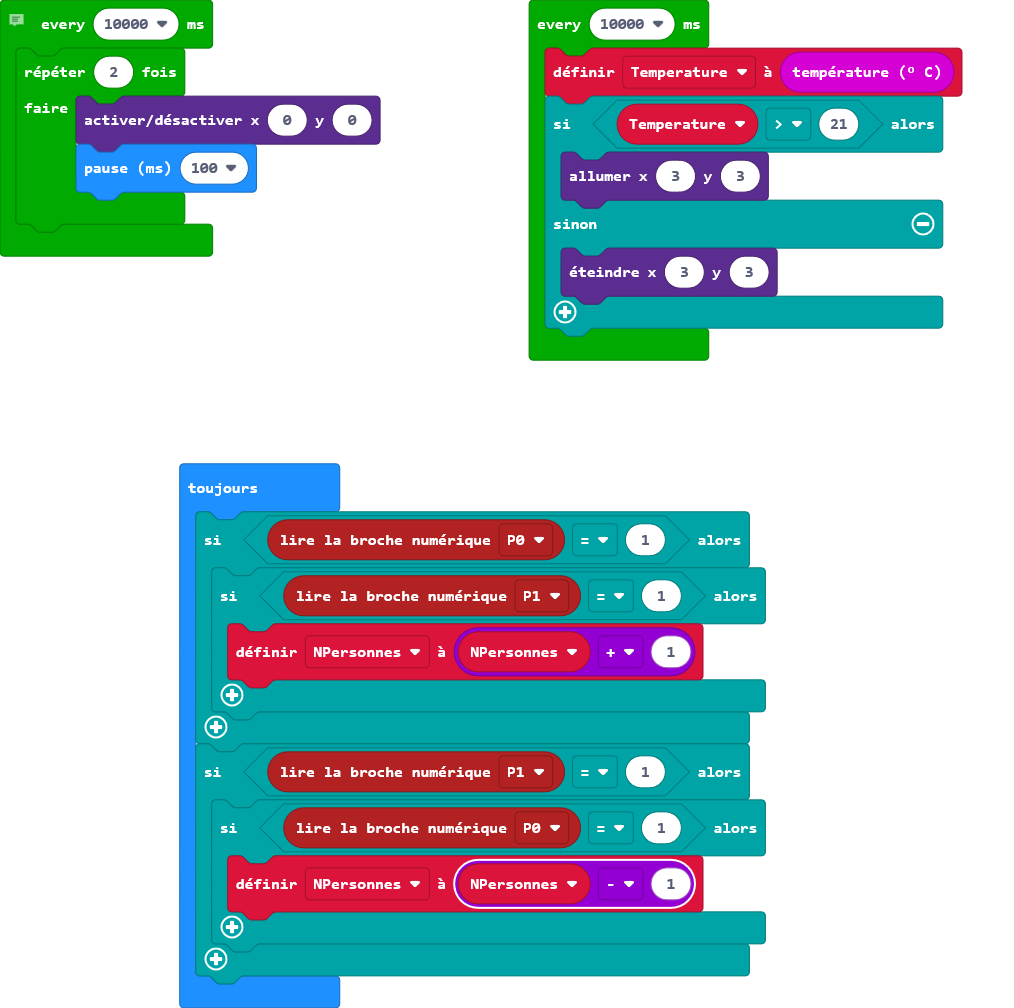
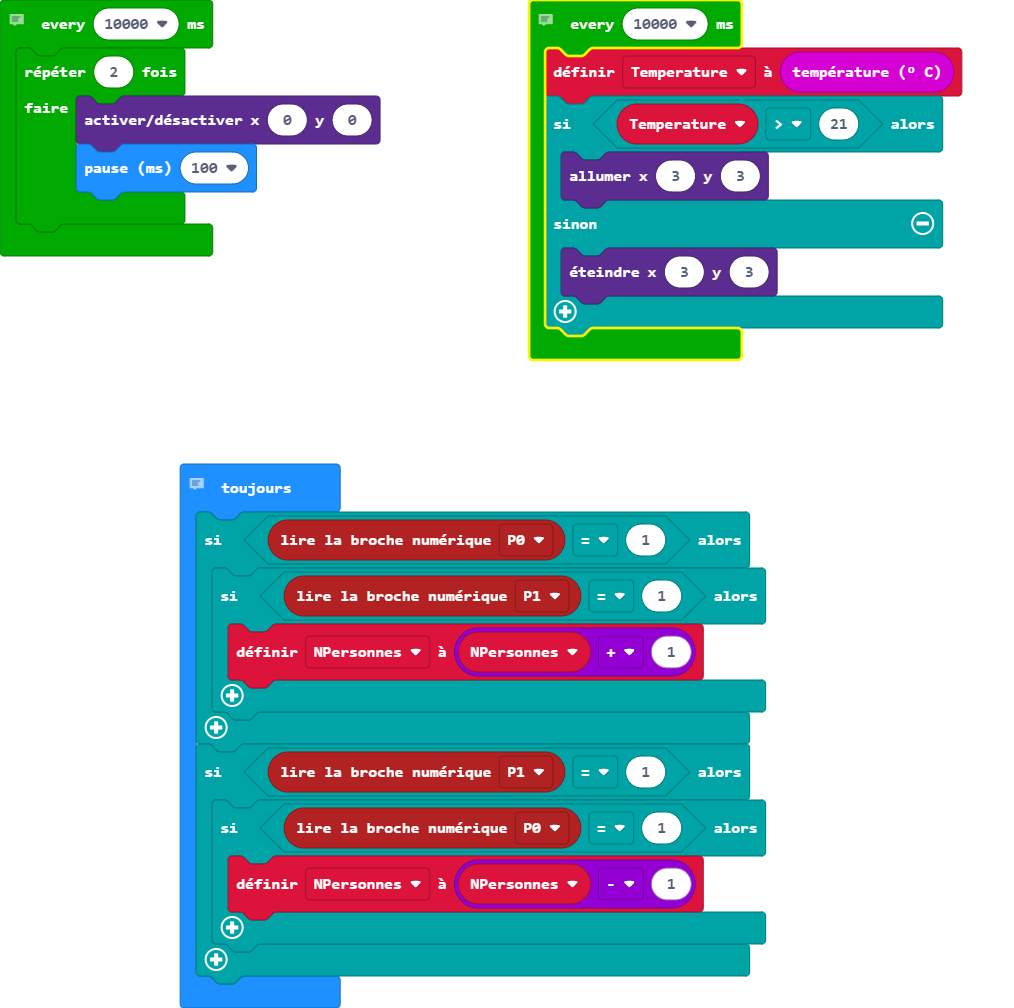
ajout commentaires

diff --git a/main.ts b/main.ts
@@ -1,12 +1,14 @@
 let Temperature = 0
 let NPersonnes = 0
-// indicateur de fonctionement
+// indicateur de fonctionnement
 loops.everyInterval(10000, function () {
     for (let index = 0; index < 2; index++) {
         led.toggle(0, 0)
         basic.pause(100)
     }
 })
+// température
+// 
 loops.everyInterval(10000, function () {
     Temperature = input.temperature()
     if (Temperature > 21) {
@@ -15,6 +17,7 @@ loops.everyInterval(10000, function () {
         led.unplot(3, 3)
     }
 })
+// compte-personne
 basic.forever(function () {
     if (pins.digitalReadPin(DigitalPin.P0) == 1) {
         if (pins.digitalReadPin(DigitalPin.P1) == 1) {
